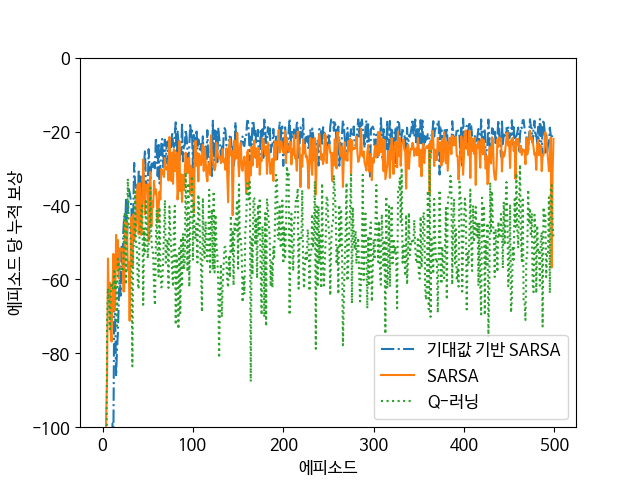
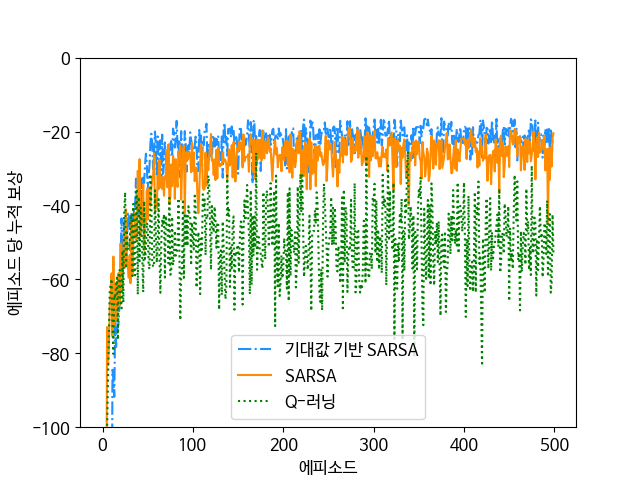
...

Changed region(s): [[0.1562, 0.25, 0.875, 0.9062]]

diff --git a/chapter_06/cliff_walking.py b/chapter_06/cliff_walking.py
@@ -149,9 +149,9 @@ def cumulative_rewards_for_episodes(env):
     rewards_q_learning /= runs
 
     # 그래프 출력
-    plt.plot(rewards_expected_sarsa, linestyle='-.', label='기대값 기반 SARSA')
-    plt.plot(rewards_sarsa, linestyle='-', label='SARSA')
-    plt.plot(rewards_q_learning, linestyle=':', label='Q-러닝')
+    plt.plot(rewards_expected_sarsa, linestyle='-.', color='dodgerblue', label='기대값 기반 SARSA')
+    plt.plot(rewards_sarsa, linestyle='-', color='darkorange', label='SARSA')
+    plt.plot(rewards_q_learning, linestyle=':', color='green', label='Q-러닝')
     plt.xlabel('에피소드')
     plt.ylabel('에피소드 당 누적 보상')
     plt.ylim([-100, 0])
@@ -229,12 +229,15 @@ def cumulative_rewards_for_step_size(env):
 
         if method == 0 or method == 3:
             marker = 'o'
+            color = 'dodgerblue'
         elif method == 1 or method == 4:
             marker = 'x'
+            color = 'darkorange'
         else:
             marker = '+'
+            color = 'green'
 
-        plt.plot(step_sizes, performace[method, :], linestyle=linestyle, marker=marker, label=label)
+        plt.plot(step_sizes, performace[method, :], linestyle=linestyle, color=color, marker=marker, label=label)
         
     plt.xlabel('스텝 사이즈 (alpha)')
     plt.ylabel('에피소드 당 누적 보상')
